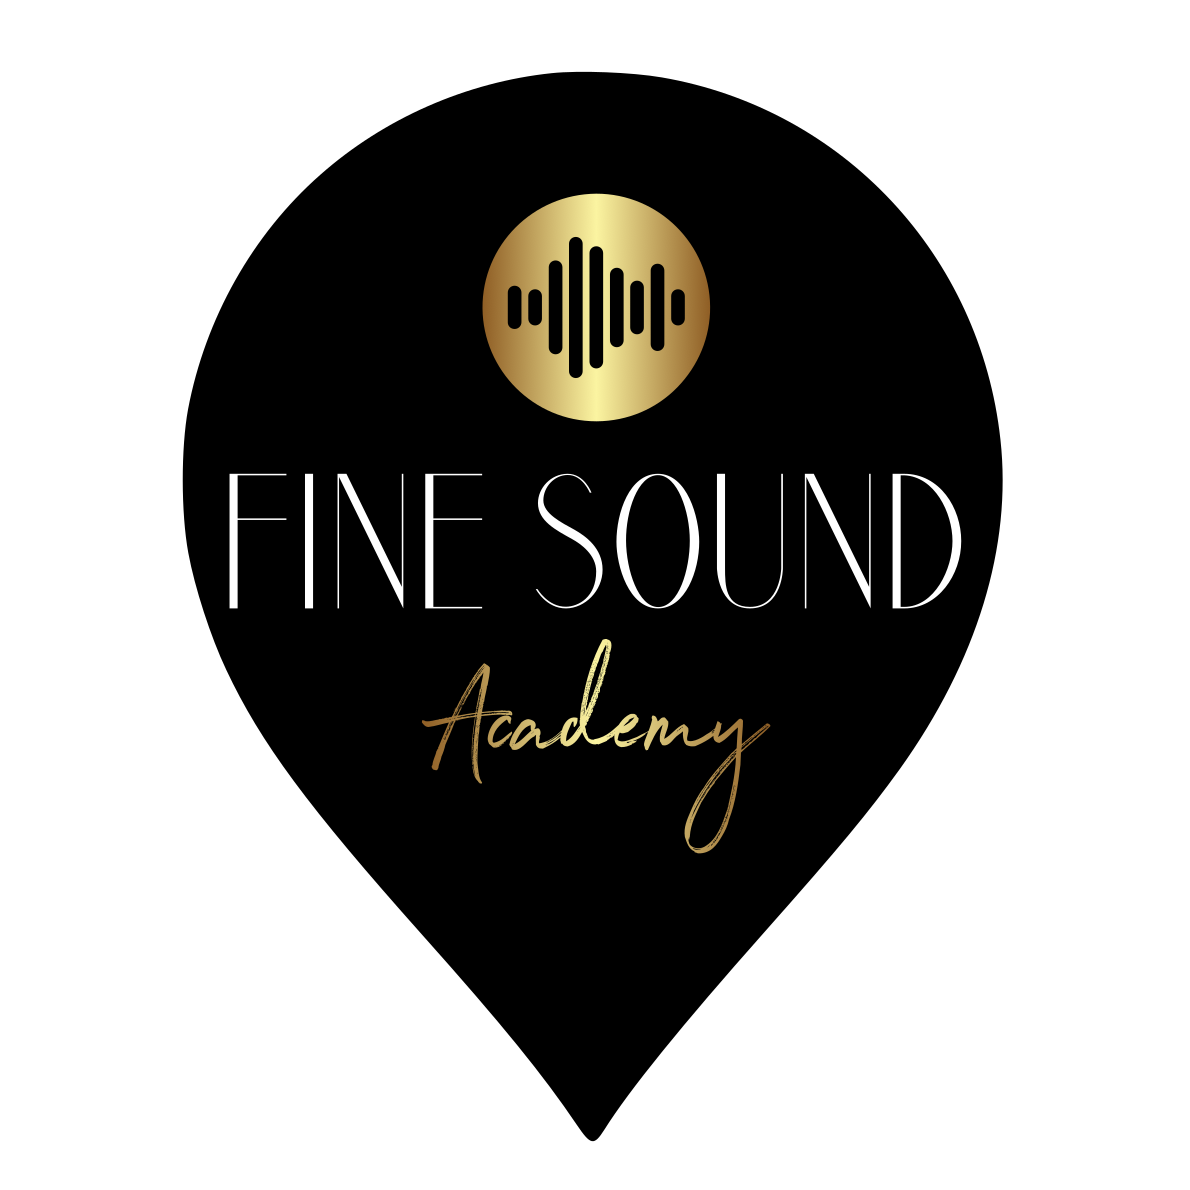
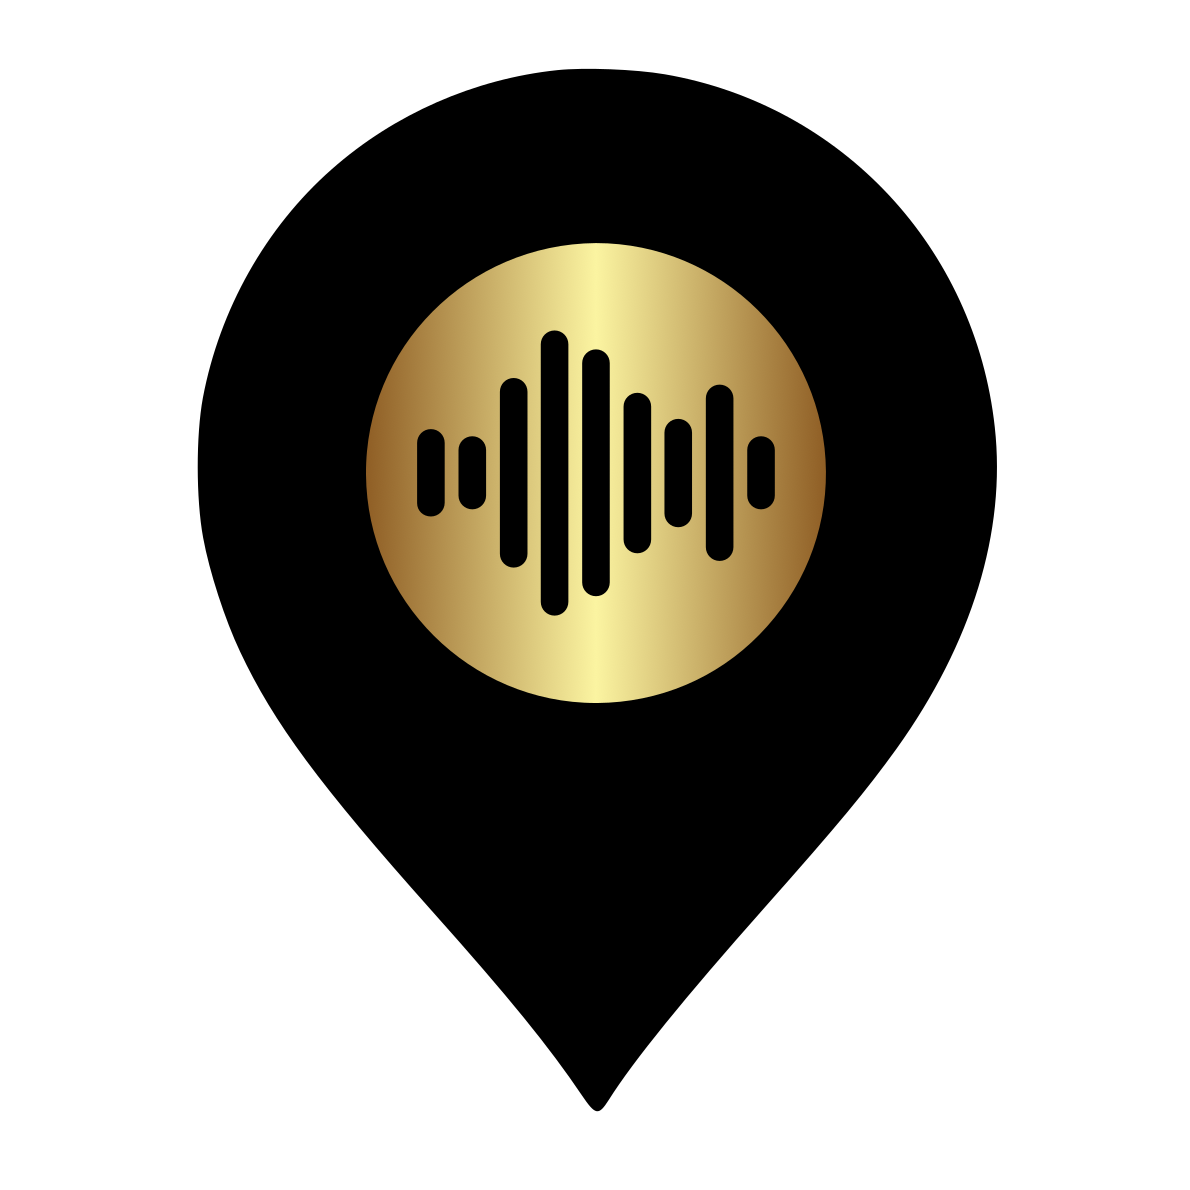
yes

diff --git a/src/pages/Landing.jsx b/src/pages/Landing.jsx
@@ -26,9 +26,9 @@ const Landing = ({ location }) => {
     return () => clearInterval(interval);
   }, [currentImageIndex]);
   const location1 = {
-    center: { lat: 51.20123191909517, lng: 6.692897037904017 },
-    lat: 51.20195792823926,
-    lng: 6.689538911093469,
+    center: { lat: 51.200934234153095, lng: 6.6902485237841995 },
+    lat: 51.200934234153095,
+    lng: 6.6902485237841995,
   };
   console.log(instrumentsList);
   return (
@@ -65,7 +65,12 @@ const Landing = ({ location }) => {
         </nav>
         <div className="banner">
           <CrossfadeImage
-            style={{ width: "100%", height: "100%" }}
+            style={{
+              width: "100%",
+              height: "100%",
+              position: "relative",
+              zIndex: "-1",
+            }}
             duration={4000}
             src={images[currentImageIndex]}
             alt=""
@@ -187,7 +192,7 @@ const Landing = ({ location }) => {
                     </li>
                     <li>
                       <BsCheckCircleFill className="list_check" />
-                      3,6 oder 12 Monate Vertragslaufzeit
+                      3, 6 oder 12 Monate Vertragslaufzeit
                     </li>
                     <li>
                       <BsCheckCircleFill className="list_check" />
@@ -211,7 +216,7 @@ const Landing = ({ location }) => {
                     </li>
                     <li>
                       <BsCheckCircleFill className="list_check" />
-                      3,6 oder 12 Monate Vertragslaufzeit
+                      3, 6 oder 12 Monate Vertragslaufzeit
                     </li>
                     <li>
                       <BsCheckCircleFill className="list_check" />

diff --git a/src/components/Map/MapSquare.jsx b/src/components/Map/MapSquare.jsx
@@ -28,16 +28,28 @@ const MapSquare = () => {
             </p>
           </div> */}
       <div className="information_details">
-        <div className="svg-holder">
-          <MdPhone />
+        <div className="both_schools">
+          <div className="svg-holder">
+            <MdPhone />
+          </div>
+          <p>01514 1273622</p>
         </div>
-        <p>01514 1273622</p>
+        <div className="information_details">
+          <div className="svg-holder">
+            <MdMail />
+          </div>
+          <p>t.damjanovic@modernmusicschool.com</p>
+        </div>
       </div>
-      <div className="information_details">
-        <div className="svg-holder">
-          <MdMail />
+      <div className="addresses">
+        <div className="neuss_address">
+          <h5>Neuss</h5>
+          <p>Neumarkt 18, 41460</p>
         </div>
-        <p>t.damjanovic@modernmusicschool.com</p>
+        <div className="duesseldorf_address">
+          <h5>Düsseldorf</h5>
+          <p>Kaiserstraße 28, 40479</p>
+        </div>
       </div>
       <div className="whatsapp">
         <a href="https://api.whatsapp.com/send?phone=4917664209354">

diff --git a/src/components/Map/Map.jsx b/src/components/Map/Map.jsx
@@ -7,7 +7,7 @@ import { mapStyles } from "../../assets/map";
 import mapMarker from "../../assets/images/MapMarkerFSA.png";
 const Map = ({ location, zoomLevel }) => {
   return (
-    <div className="map">
+    <div className="map" style={{ position: "relative" }}>
       <div className="google-map">
         <GoogleMapReact
           bootstrapURLKeys={{ key: "AIzaSyBWfVlEwLKClNW6xqX6YKk27v-nG1RVKMY" }}
@@ -29,8 +29,11 @@ const Map = ({ location, zoomLevel }) => {
   );
 };
 const LocationPin = ({ text }) => (
-  <div className="pin">
-    <img src={mapMarker} alt="" className="marker" />
+  <div
+    className="pin"
+    style={{ position: "absolute", transform: "translate(-50%,-50%)" }}
+  >
+    <img src={mapMarker} alt="" className="marker" style={{ height: "100%" }} />
   </div>
 );
 export default Map;

diff --git a/src/pages/Landing.css b/src/pages/Landing.css
@@ -21,7 +21,12 @@ nav {
   text-align: center;
   color: white;
   margin-top: 2rem;
-
+  background: linear-gradient(
+    to right,
+    rgba(0, 0, 0, 0.452),
+    rgba(0, 0, 0, 0.603),
+    rgba(0, 0, 0, 0.452)
+  );
   height: 90vh;
   display: flex;
   flex-direction: column;
@@ -35,6 +40,7 @@ nav {
   left: 50%;
   top: 50%;
   z-index: 10000;
+
   transform: translate(-50%, -50%);
 }
 .shadow {
@@ -147,7 +153,7 @@ h2 {
 }
 .offer_square {
   width: 30rem;
-  border: 1rem #cfa528 solid;
+  border: 0.6rem #cfa528 solid;
   display: flex;
   padding: 3rem 2rem;
   flex-direction: column;

diff --git a/public/index.html b/public/index.html
@@ -2,7 +2,7 @@
 <html lang="en">
   <head>
     <meta charset="utf-8" />
-    <link rel="icon" href="%PUBLIC_URL%/favicon.ico" />
+    <link rel="icon" href="./src/assets/images/Logo.png" />
     <meta name="viewport" content="width=device-width, initial-scale=1" />
     <meta name="theme-color" content="#000000" />
     <meta
@@ -39,6 +39,5 @@
       To begin the development, run `npm start` or `yarn start`.
       To create a production bundle, use `npm run build` or `yarn build`.
     -->
-    
   </body>
 </html>

diff --git a/src/components/Map/map.css b/src/components/Map/map.css
@@ -3,8 +3,8 @@
   width: 100%;
 }
 .pin {
-  width: 15rem;
-  height: 15rem;
+  transform: translate(-50%, -100%);
+  height: 70px;
   color: #a38f52;
 }
 .map {
@@ -48,8 +48,4 @@
   top: 50%;
   transform: translateY(-50%);
   right: 10%;
-}
-.marker {
-  width: 100%;
-  height: 100%;
 }
